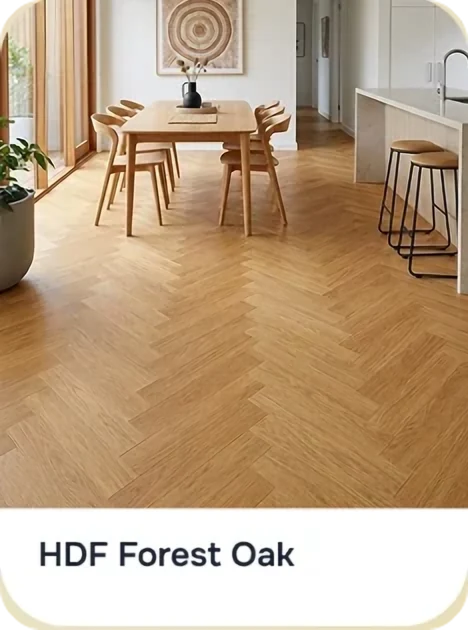
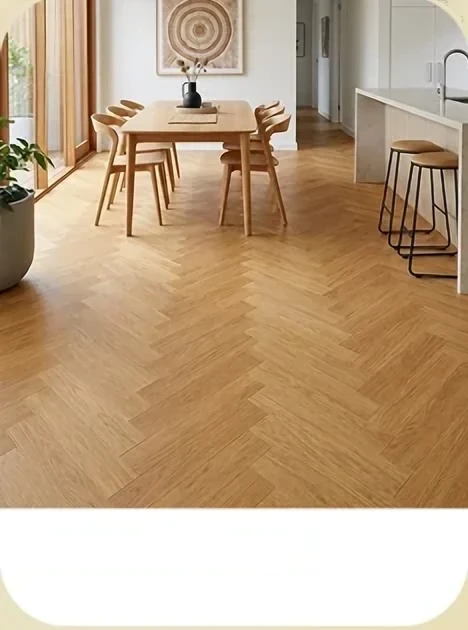
Replace text baked into images with live text; equal-size category tiles
Steps, feature strip and Explore card labels were part of raster images and
looked soft when scaled. The text is erased from the images and rendered as
real text in the same place.

diff --git a/src/components/Captions.tsx b/src/components/Captions.tsx
@@ -1,0 +1,111 @@
+import { FitText } from './FitText'
+
+// Copy that used to be baked into the page backgrounds, now live text so it stays sharp.
+// Each line is [text, x0, top] in design px (ink left / ink top as measured on the mockup);
+// a block's lines share the font size of its `ref` line, whose ink spans `w`.
+type Line = [text: string, x0: number, top: number]
+type Block = { cls: string; ref: string; w: number; d?: Line[]; m?: Line[] }
+
+const FEATURES: Block[] = [
+  { cls: 'cap-feat b', ref: '30,000+', w: 70, d: [['30,000+', 591, 1540]] },
+  { cls: 'cap-feat', ref: 'Designs', w: 63, d: [['Designs', 595, 1562]] },
+  { cls: 'cap-feat', ref: 'Delivered at', w: 96, d: [['Delivered at', 760, 1541]] },
+  { cls: 'cap-feat b', ref: 'Your Doorstep', w: 119, d: [['Your Doorstep', 748, 1563]] },
+  { cls: 'cap-feat', ref: 'Installation', w: 87, d: [['Installation', 947, 1541]] },
+  { cls: 'cap-feat b', ref: 'within 1 day', w: 98, d: [['within 1 day', 941, 1563]] },
+  { cls: 'cap-feat b', ref: 'No Renovation', w: 121, d: [['No Renovation', 1111, 1541]] },
+  { cls: 'cap-feat', ref: 'Needed', w: 62, d: [['Needed', 1141, 1563]] },
+  { cls: 'cap-feat b', ref: '1 Year warranty', w: 130, d: [['1 Year warranty', 1306, 1542]] },
+  { cls: 'cap-feat', ref: 'on installation', w: 112, d: [['on installation', 1315, 1563]] },
+
+  { cls: 'cap-feat b', ref: '25,000+', w: 39.7, m: [['25,000+', 67.3, 589.7]] },
+  { cls: 'cap-feat', ref: 'Designs', w: 36.7, m: [['Designs', 69.3, 599.7]] },
+  { cls: 'cap-feat', ref: 'Delivered at', w: 55.7, m: [['Delivered at', 162.3, 589.7]] },
+  { cls: 'cap-feat b', ref: 'Your Doorstep', w: 69, m: [['Your Doorstep', 155.3, 599.7]] },
+  { cls: 'cap-feat', ref: 'Installation', w: 51.4, m: [['Installation', 272.3, 589.7]] },
+  { cls: 'cap-feat b', ref: 'within 1 day', w: 56.3, m: [['within 1 day', 269.7, 599.3]] },
+]
+
+const STEPS: Block[] = [
+  {
+    cls: 'cap-step-t',
+    ref: '01 — Book a Consultation',
+    w: 193,
+    d: [
+      ['01 — Book a Consultation', 342, 5046],
+      ['02 — Visit Our Experience Centre', 606, 5045],
+      ['03 — Choose Your Materials', 919, 5046],
+      ['04 — Get It Delivered', 1222, 5046],
+      ['05 — Get It Installed', 1507, 5046],
+    ],
+  },
+  {
+    cls: 'cap-step-p',
+    ref: 'your nearest Experience Centre',
+    w: 239,
+    d: [
+      ['We’ll understand your needs', 330, 5074],
+      ['and book an appointment at', 333, 5093],
+      ['your nearest Experience Centre', 319, 5111],
+      ['Explore 25,000+ designs in', 631, 5074],
+      ['wallpapers, wall panels and', 629, 5093],
+      ['wooden flooring', 670, 5111],
+      ['Get expert guidance and', 933, 5074],
+      ['shortlist the materials that', 927, 5093],
+      ['bring your vision to life.', 938, 5111],
+      ['We deliver your selected', 1209, 5074],
+      ['materials to your doorstep,', 1201, 5093],
+      ['ready for installation.', 1224, 5111],
+      ['Our installation support', 1496, 5074],
+      ['helps bring your chosen', 1494, 5093],
+      ['look to life', 1545, 5111],
+    ],
+  },
+  {
+    cls: 'cap-step-t',
+    ref: '01 Book a Consultation',
+    w: 133.7,
+    m: [
+      ['01 Book a Consultation', 58, 2003.7],
+      ['02 Visit Our Experience Centre', 55.3, 2064.3],
+      ['03 Choose Your Materials', 53.7, 2126.3],
+      ['04 Get It Delivered', 53.3, 2187.3],
+      ['05 Get It Installed', 53.7, 2253.7],
+    ],
+  },
+  {
+    cls: 'cap-step-p',
+    ref: 'We’ll understand your needs and book an',
+    w: 176.7,
+    m: [
+      ['We’ll understand your needs and book an', 53, 2019.3],
+      ['appointment at your nearest Experience Centre.', 53.3, 2027],
+      ['Explore 25,000+ designs in wallpapers,', 53.3, 2078.7],
+      ['wall panels and wooden flooring', 53.3, 2087.7],
+      ['Get expert guidance and shortlist', 53.3, 2141],
+      ['the materials that bring your vision to life.', 53.3, 2150],
+      ['We deliver your selected materials to', 53.3, 2204],
+      ['your doorstep, ready for installation.', 53.3, 2213],
+      ['Our installation support helps', 53.3, 2269.3],
+      ['bring your chosen look to life', 53.3, 2278.3],
+    ],
+  },
+]
+
+function Lines({ blocks }: { blocks: Block[] }) {
+  return (
+    <>
+      {blocks.flatMap((b) => [
+        ...(b.d ?? []).map(([t, x, y]) => (
+          <FitText key={`d${t}${y}`} fit={[x, x + b.w, y]} refText={b.ref} className={`cap ${b.cls}`}>{t}</FitText>
+        )),
+        ...(b.m ?? []).map(([t, x, y]) => (
+          <FitText key={`m${t}${y}`} fitM={[x, x + b.w, y]} refText={b.ref} className={`cap ${b.cls}`}>{t}</FitText>
+        )),
+      ])}
+    </>
+  )
+}
+
+export const FeatureCaptions = () => <Lines blocks={FEATURES} />
+export const StepCaptions = () => <Lines blocks={STEPS} />

diff --git a/src/App.css b/src/App.css
@@ -131,6 +131,12 @@ a, button { color: inherit; text-decoration: none; font: inherit; background: no
 .btn-gallery { color: var(--ink); }
 .btn-gallery svg { width: auto; height: .7em; }
 
+/* ---------- captions that used to be baked into the backgrounds ---------- */
+.cap-feat { color: #7b3f0c; font-weight: 500; }
+.cap-feat.b { font-weight: 700; }
+.cap-step-t { color: var(--brown); font-weight: 700; }
+.cap-step-p { color: #3a3833; font-weight: 500; }
+
 /* ---------- image zoom ---------- */
 .zoom { display: block; overflow: hidden; }
 .zoom img { width: 100%; transition: transform var(--zoom-speed) var(--zoom-ease); }
@@ -185,6 +191,8 @@ a, button { color: inherit; text-decoration: none; font: inherit; background: no
 .panel-track { position: absolute; left: 14px; top: 12px; transition: transform .6s cubic-bezier(.2, .7, .2, 1); }
 .panel-card { position: absolute; top: 0; width: 235px; height: 310px; border-radius: 22px; transition: transform .4s cubic-bezier(.2, .7, .2, 1), box-shadow .4s; }
 .panel-card img { width: 100%; height: 100%; object-fit: cover; border-radius: 22px; }
+.panel-card .card-name { position: absolute; left: 17px; right: 12px; top: 260px; bottom: 8px; display: flex; align-items: center; font-size: 19px; line-height: 1.15; font-weight: 600; color: #1f2533; }
+.panel-card .card-more { position: absolute; left: 26px; top: 95px; font-size: 26px; font-weight: 700; color: #8a3d0a; white-space: nowrap; }
 .panel-card:hover { transform: translateY(-6px); box-shadow: 0 14px 24px rgba(137, 61, 0, .18); }
 
 /* ---------- videos ---------- */

diff --git a/src/components/Explore.tsx b/src/components/Explore.tsx
@@ -25,11 +25,13 @@ function Cards({ category }: { category: Category }) {
         <div className="panel-track" style={{ transform: `translateX(${-cardLeft(page)}px)` }}>
           {category.cards.map((card, i) => (
             <a key={card.img} href={`${SITE_URL}${card.href}`} target="_blank" rel="noreferrer" className="panel-card" style={{ left: cardLeft(i) }}>
-              <img src={asset(card.img)} alt={card.name} loading="lazy" />
+              <img src={asset(card.img)} alt="" loading="lazy" />
+              <span className="card-name">{card.name}</span>
             </a>
           ))}
           <a href={`${SITE_URL}${category.href}`} target="_blank" rel="noreferrer" className="panel-card" style={{ left: cardLeft(category.cards.length) }}>
-            <img src={asset(`card-${category.key}-explore`)} alt={`Explore more ${category.name}`} loading="lazy" />
+            <img src={asset(`card-${category.key}-explore`)} alt="" loading="lazy" />
+            <span className="card-more">Explore More<span className="sr-only"> {category.name}</span></span>
           </a>
         </div>
       </div>

diff --git a/src/App.tsx b/src/App.tsx
@@ -6,6 +6,7 @@ import { Videos } from './components/Videos'
 import { Makeover } from './components/Makeover'
 import { Explore } from './components/Explore'
 import { Steps } from './components/Steps'
+import { FeatureCaptions, StepCaptions } from './components/Captions'
 import { WhyVisit } from './components/WhyVisit'
 import { Inspiration } from './components/Inspiration'
 import { Stores } from './components/Stores'
@@ -21,10 +22,12 @@ export default function App() {
       <h1 className="sr-only">Diwali Makeover Fest — Give your home a Diwali makeover with wallpaper, wall panels and wooden flooring</h1>
       <Glows />
       <Intro />
+      <FeatureCaptions />
       <Makeover />
       <Videos />
       <Explore />
       <Steps />
+      <StepCaptions />
       <WhyVisit />
       <Inspiration />
       <Stores />

diff --git a/src/data.ts b/src/data.ts
@@ -60,8 +60,8 @@ export const categories: Category[] = [
     price: 26,
     on: 'tile-wallpaper-on',
     off: 'tile-wallpaper-off',
-    tileD: { x: 631, y: 1989, w: 224 },
-    tileM: { x: 11, y: 765, w: 111 },
+    tileD: { x: 648.5, y: 2014, w: 189 }, // same size as the other tiles (the mockup drew it in its selected state)
+    tileM: { x: 19.5, y: 776.6, w: 94 },
     pillD: { x: 660, y: 2246, w: 166, h: 32 },
     pillM: { x: 25, y: 878, w: 83, h: 16 },
     tabW: 152,
